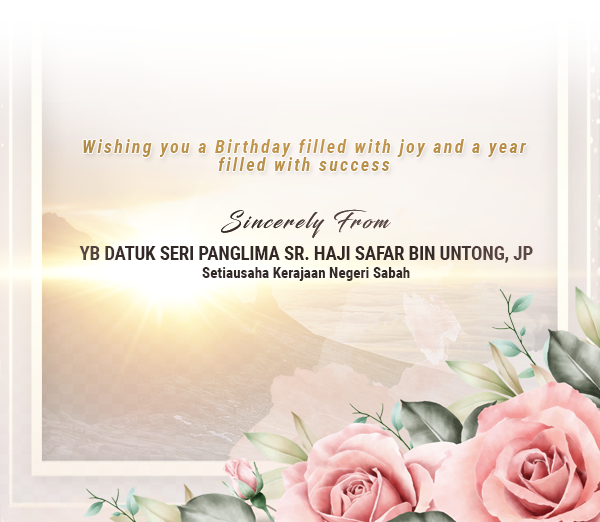
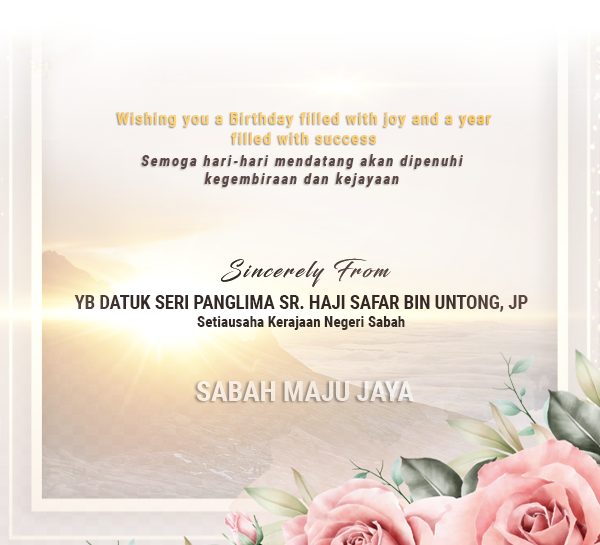
finalization of design by F & N

Changed region(s): [[0.06, 0.3985, 1.0, 1.0], [0.12, 0.1839, 0.87, 0.3678]]

diff --git a/_from-KPPAN/kppanbday.html b/_from-KPPAN/kppanbday.html
@@ -4,13 +4,13 @@
   <meta charset="UTF-8"> 
   <meta content="width=device-width, initial-scale=1" name="viewport"> 
   <meta http-equiv="X-UA-Compatible" content="IE=edge"> 
-  <title>Ucapan Selamat Hari Lahir dari SKN</title> 
+  <title>Ucapan Selamat Hari Lahir dari KPPAN</title> 
   
   <link href="https://fonts.googleapis.com/css?family=Merriweather:400,400i,700,700i" rel="stylesheet"> 
   <link href="https://fonts.googleapis.com/css?family=Merriweather+Sans:400,400i,700,700i" rel="stylesheet"> 
   <link href="https://fonts.googleapis.com/css?family=Open+Sans:400,400i,700,700i" rel="stylesheet"> 
   <link href='https://fonts.googleapis.com/css?family=Cedarville Cursive' rel='stylesheet'>
-
+  
 
     <body>
         <div>
@@ -18,21 +18,20 @@
             <table class="center" style="margin-left: auto; margin-right: auto;">
                 <tr> 
                     <td style="text-align: center;">
-                        <!--<img src="sknbday1.png">-->
-                        <img class="adapt-img" src="https://i.ibb.co/q13zhW2/sknbday1.png" alt="sknbday1" border="0">
+                        <!--<img src="kppanbday1.png">-->
+                        <img class="adapt-img" src="https://i.ibb.co/6sR9Gmf/kppanbday1.png" alt="kppanbday1" border="0">
                     </td>
                 </tr>
-                <tr style=" background-color: #FFFFFF; ">
-                    <td class="center" style="text-align: center; padding-top: 0px; padding-bottom: 0px; font-family: 'Cedarville Cursive';font-size: 33px;">
-                        <strong>
-                            NameToReplace 
-                        </strong>    
+                <tr style=" background-color: #FFFFFF; "><td class="center" style="text-align: center; padding-top: 0px; padding-bottom: 0px; font-family: 'Cedarville Cursive';font-size: 33px;">
+                    <strong>
+                        NameToReplace 
+                    </strong>    
                     </td> 
                 </tr>
                 <tr> 
                     <td style="text-align: center;">
-                        <!--<img src="sknbday2.png">-->
-                        <img class="adapt-img" src="https://i.ibb.co/GvDMMcx/sknbday2.png" alt="sknbday2" border="0">
+                        <!--<img src="kppanbday2.png">-->
+                        <img class="adapt-img" src="https://i.ibb.co/pjNNsxw/kppanbday2.png" alt="kppanbday2" border="0">
                     </td>
                 </tr> 
             </table> 

diff --git a/_from-SKN/.old/sknbday.html b/_from-SKN/.old/sknbday.html
@@ -5,35 +5,25 @@
   <meta content="width=device-width, initial-scale=1" name="viewport"> 
   <meta http-equiv="X-UA-Compatible" content="IE=edge"> 
   <title>Ucapan Selamat Hari Lahir dari SKN</title> 
-  
   <link href="https://fonts.googleapis.com/css?family=Merriweather:400,400i,700,700i" rel="stylesheet"> 
   <link href="https://fonts.googleapis.com/css?family=Merriweather+Sans:400,400i,700,700i" rel="stylesheet"> 
   <link href="https://fonts.googleapis.com/css?family=Open+Sans:400,400i,700,700i" rel="stylesheet"> 
-  <link href='https://fonts.googleapis.com/css?family=Cedarville Cursive' rel='stylesheet'>
-
-
-    <body>
+ </head> 
+    <body style="width:100%;font-family:arial, 'helvetica neue', helvetica, sans-serif;-webkit-text-size-adjust:100%;-ms-text-size-adjust:100%;padding:0;Margin:0">
         <div>
 
             <table class="center" style="margin-left: auto; margin-right: auto;">
                 <tr> 
-                    <td style="text-align: center;">
-                        <!--<img src="sknbday1.png">-->
-                        <img class="adapt-img" src="https://i.ibb.co/q13zhW2/sknbday1.png" alt="sknbday1" border="0">
-                    </td>
+                    <td style="text-align: center;"><img class="adapt-img" src="https://i.ibb.co/DkfpK4Q/sknbday1.png"></td>
                 </tr>
-                <tr style=" background-color: #FFFFFF; ">
-                    <td class="center" style="text-align: center; padding-top: 0px; padding-bottom: 0px; font-family: 'Cedarville Cursive';font-size: 33px;">
-                        <strong>
-                            NameToReplace 
-                        </strong>    
+                <tr style=" background-color: #FFFFFF; "><td class="center" style="text-align: center; padding-top: 0px; padding-bottom: 0px; font-family: 'Cedarville Cursive';font-size: 33px;">
+                    <strong>
+                        NameToReplace 
+                    </strong>    
                     </td> 
                 </tr>
                 <tr> 
-                    <td style="text-align: center;">
-                        <!--<img src="sknbday2.png">-->
-                        <img class="adapt-img" src="https://i.ibb.co/GvDMMcx/sknbday2.png" alt="sknbday2" border="0">
-                    </td>
+                    <td style="text-align: center;"><img class="adapt-img" src="https://i.ibb.co/x68Ljm5/sknbday2.png"></td>
                 </tr> 
             </table> 
         </div>  

diff --git a/_from-SKN/.old/sknretire.html b/_from-SKN/.old/sknretire.html
@@ -4,36 +4,26 @@
   <meta charset="UTF-8"> 
   <meta content="width=device-width, initial-scale=1" name="viewport"> 
   <meta http-equiv="X-UA-Compatible" content="IE=edge"> 
-  <title>Ucapan Selamat Hari Lahir dari SKN</title> 
-  
+  <title>Ucapan Selamat Bersara dari SKN</title> 
   <link href="https://fonts.googleapis.com/css?family=Merriweather:400,400i,700,700i" rel="stylesheet"> 
   <link href="https://fonts.googleapis.com/css?family=Merriweather+Sans:400,400i,700,700i" rel="stylesheet"> 
   <link href="https://fonts.googleapis.com/css?family=Open+Sans:400,400i,700,700i" rel="stylesheet"> 
-  <link href='https://fonts.googleapis.com/css?family=Cedarville Cursive' rel='stylesheet'>
-
-
+ </head> 
     <body>
         <div>
 
             <table class="center" style="margin-left: auto; margin-right: auto;">
                 <tr> 
-                    <td style="text-align: center;">
-                        <!--<img src="sknbday1.png">-->
-                        <img class="adapt-img" src="https://i.ibb.co/q13zhW2/sknbday1.png" alt="sknbday1" border="0">
-                    </td>
+                    <td style="text-align: center;"><img src="sknbersara1.png"></td>
                 </tr>
-                <tr style=" background-color: #FFFFFF; ">
-                    <td class="center" style="text-align: center; padding-top: 0px; padding-bottom: 0px; font-family: 'Cedarville Cursive';font-size: 33px;">
-                        <strong>
-                            NameToReplace 
-                        </strong>    
+                <tr style=" background-color: #FFFFFF; "><td class="center" style="text-align: center; padding-top: 0px; padding-bottom: 0px; font-family: 'Cedarville Cursive';font-size: 33px;">
+                    <strong>
+                        NameToReplace 
+                    </strong>    
                     </td> 
                 </tr>
                 <tr> 
-                    <td style="text-align: center;">
-                        <!--<img src="sknbday2.png">-->
-                        <img class="adapt-img" src="https://i.ibb.co/GvDMMcx/sknbday2.png" alt="sknbday2" border="0">
-                    </td>
+                    <td style="text-align: center;"><img src="sknbersara2.png"></td>
                 </tr> 
             </table> 
         </div>  

diff --git a/_from-KPPAN/kppanretire.html b/_from-KPPAN/kppanretire.html
@@ -4,13 +4,12 @@
   <meta charset="UTF-8"> 
   <meta content="width=device-width, initial-scale=1" name="viewport"> 
   <meta http-equiv="X-UA-Compatible" content="IE=edge"> 
-  <title>Ucapan Selamat Hari Lahir dari SKN</title> 
+  <title>Ucapan Selamat Bersara dari KPPAN</title> 
   
   <link href="https://fonts.googleapis.com/css?family=Merriweather:400,400i,700,700i" rel="stylesheet"> 
   <link href="https://fonts.googleapis.com/css?family=Merriweather+Sans:400,400i,700,700i" rel="stylesheet"> 
   <link href="https://fonts.googleapis.com/css?family=Open+Sans:400,400i,700,700i" rel="stylesheet"> 
   <link href='https://fonts.googleapis.com/css?family=Cedarville Cursive' rel='stylesheet'>
-
 
     <body>
         <div>
@@ -18,8 +17,8 @@
             <table class="center" style="margin-left: auto; margin-right: auto;">
                 <tr> 
                     <td style="text-align: center;">
-                        <!--<img src="sknbday1.png">-->
-                        <img class="adapt-img" src="https://i.ibb.co/q13zhW2/sknbday1.png" alt="sknbday1" border="0">
+                        <!--<img src="kppanretire1.png">-->
+                        <img class="adapt-img" src="https://i.ibb.co/9pgztqK/kppanretire1.png" alt="kppanretire1" border="0">
                     </td>
                 </tr>
                 <tr style=" background-color: #FFFFFF; ">
@@ -31,8 +30,8 @@
                 </tr>
                 <tr> 
                     <td style="text-align: center;">
-                        <!--<img src="sknbday2.png">-->
-                        <img class="adapt-img" src="https://i.ibb.co/GvDMMcx/sknbday2.png" alt="sknbday2" border="0">
+                        <!--<img src="kppanretire2.png">-->
+                        <img class="adapt-img" src="https://i.ibb.co/Mp8Lpdy/kppanretire2.png" alt="kppanretire2" border="0">
                     </td>
                 </tr> 
             </table> 

diff --git a/_from-SKN/sknretire.html b/_from-SKN/sknretire.html
@@ -5,16 +5,22 @@
   <meta content="width=device-width, initial-scale=1" name="viewport"> 
   <meta http-equiv="X-UA-Compatible" content="IE=edge"> 
   <title>Ucapan Selamat Bersara dari SKN</title> 
+  
   <link href="https://fonts.googleapis.com/css?family=Merriweather:400,400i,700,700i" rel="stylesheet"> 
   <link href="https://fonts.googleapis.com/css?family=Merriweather+Sans:400,400i,700,700i" rel="stylesheet"> 
   <link href="https://fonts.googleapis.com/css?family=Open+Sans:400,400i,700,700i" rel="stylesheet"> 
- </head> 
+  <link href='https://fonts.googleapis.com/css?family=Cedarville Cursive' rel='stylesheet'>
+  
+
     <body>
         <div>
 
             <table class="center" style="margin-left: auto; margin-right: auto;">
                 <tr> 
-                    <td style="text-align: center;"><img src="sknbersara1.png"></td>
+                    <td style="text-align: center;">
+                        <!--<img src="sknretire1.png">-->
+                        <img class="adapt-img" src="https://i.ibb.co/4KzBHYy/sknretire1.png" alt="sknretire1" border="0">
+                    </td>
                 </tr>
                 <tr style=" background-color: #FFFFFF; "><td class="center" style="text-align: center; padding-top: 0px; padding-bottom: 0px; font-family: 'Cedarville Cursive';font-size: 33px;">
                     <strong>
@@ -23,8 +29,10 @@
                     </td> 
                 </tr>
                 <tr> 
-                    <td style="text-align: center;"><img src="sknbersara2.png"></td>
-                </tr> 
+                    <td style="text-align: center;">
+                        <!--<img src="sknretire2.png">-->
+                        <img class="adapt-img" src="https://i.ibb.co/ByxDDGb/sknretire2.png" alt="sknretire2" border="0">
+                    </td>
             </table> 
         </div>  
     </body>
